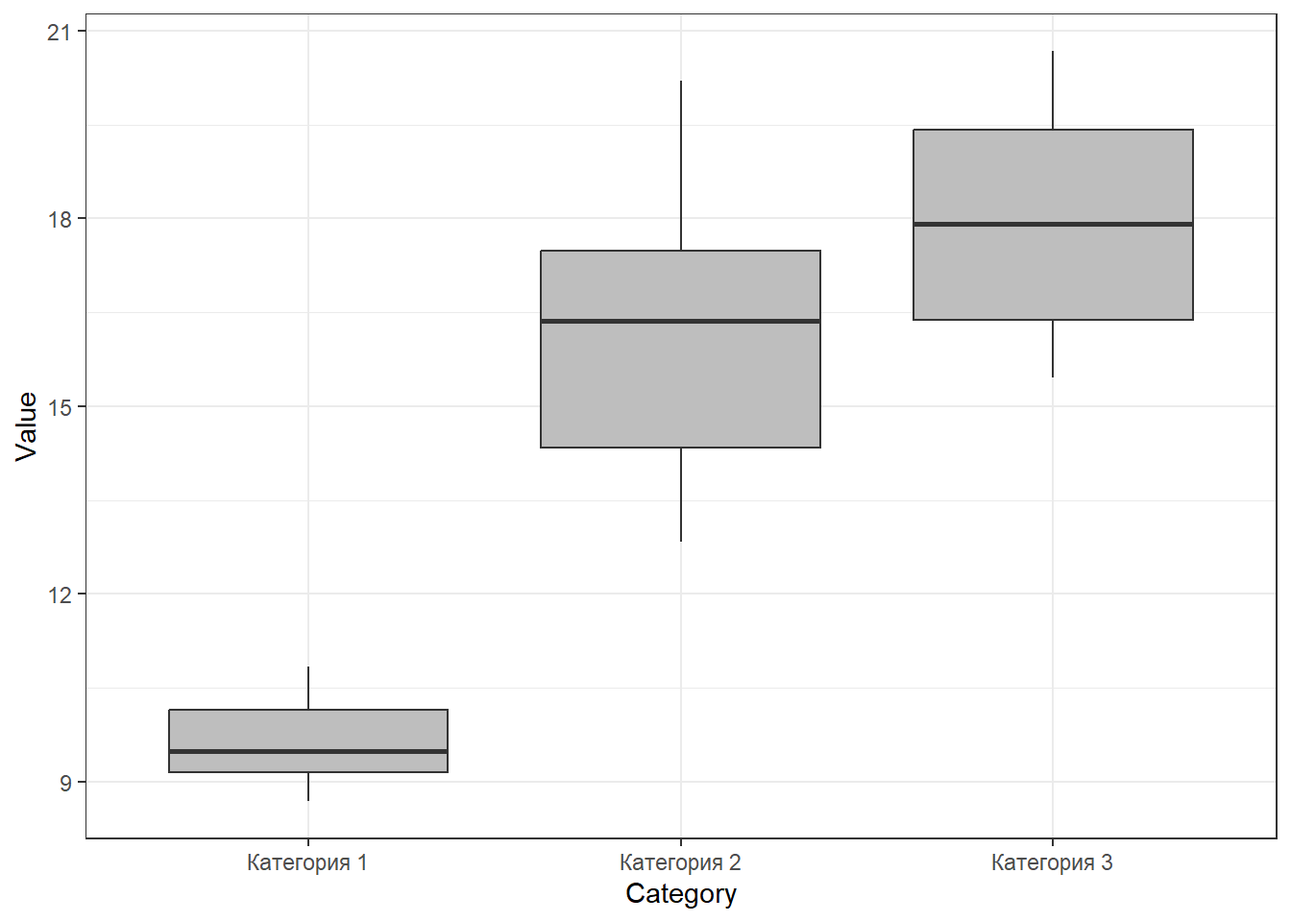
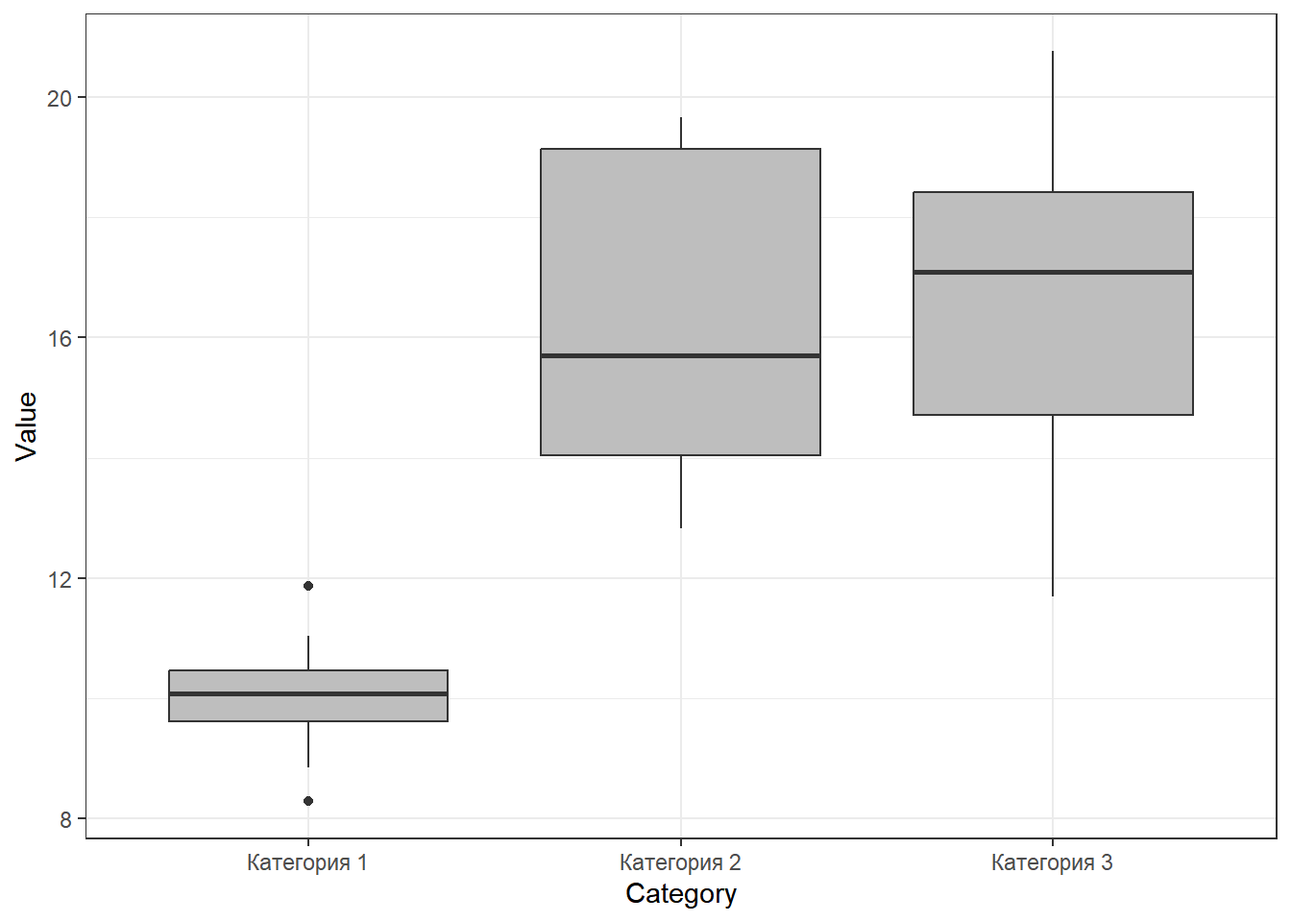
Открыл код лекции

diff --git a/lectures.html b/lectures.html
@@ -535,7 +535,7 @@ virginica.</p>
 набить в экселе.</p>
 <p>Для примера, решение аналогичного задания, для вида “setosa” по
 переменной <code>iris$Sepal.Width</code> будет выглядеть вот так.</p>
-<div class="tabwid"><style>.cl-20b68b18{}.cl-209d0fc6{font-family:'Arial';font-size:11pt;font-weight:normal;font-style:normal;text-decoration:none;color:rgba(0, 0, 0, 1.00);background-color:transparent;}.cl-20a6b08a{margin:0;text-align:left;border-bottom: 0 solid rgba(0, 0, 0, 1.00);border-top: 0 solid rgba(0, 0, 0, 1.00);border-left: 0 solid rgba(0, 0, 0, 1.00);border-right: 0 solid rgba(0, 0, 0, 1.00);padding-bottom:5pt;padding-top:5pt;padding-left:5pt;padding-right:5pt;line-height: 1;background-color:transparent;}.cl-20a6b09e{margin:0;text-align:right;border-bottom: 0 solid rgba(0, 0, 0, 1.00);border-top: 0 solid rgba(0, 0, 0, 1.00);border-left: 0 solid rgba(0, 0, 0, 1.00);border-right: 0 solid rgba(0, 0, 0, 1.00);padding-bottom:5pt;padding-top:5pt;padding-left:5pt;padding-right:5pt;line-height: 1;background-color:transparent;}.cl-20a73294{width:0.75in;background-color:transparent;vertical-align: middle;border-bottom: 1.5pt solid rgba(102, 102, 102, 1.00);border-top: 1.5pt solid rgba(102, 102, 102, 1.00);border-left: 0 solid rgba(0, 0, 0, 1.00);border-right: 0 solid rgba(0, 0, 0, 1.00);margin-bottom:0;margin-top:0;margin-left:0;margin-right:0;}.cl-20a7329e{width:0.75in;background-color:transparent;vertical-align: middle;border-bottom: 1.5pt solid rgba(102, 102, 102, 1.00);border-top: 1.5pt solid rgba(102, 102, 102, 1.00);border-left: 0 solid rgba(0, 0, 0, 1.00);border-right: 0 solid rgba(0, 0, 0, 1.00);margin-bottom:0;margin-top:0;margin-left:0;margin-right:0;}.cl-20a7329f{width:0.75in;background-color:transparent;vertical-align: middle;border-bottom: 0 solid rgba(0, 0, 0, 1.00);border-top: 0 solid rgba(0, 0, 0, 1.00);border-left: 0 solid rgba(0, 0, 0, 1.00);border-right: 0 solid rgba(0, 0, 0, 1.00);margin-bottom:0;margin-top:0;margin-left:0;margin-right:0;}.cl-20a732a8{width:0.75in;background-color:transparent;vertical-align: middle;border-bottom: 0 solid rgba(0, 0, 0, 1.00);border-top: 0 solid rgba(0, 0, 0, 1.00);border-left: 0 solid rgba(0, 0, 0, 1.00);border-right: 0 solid rgba(0, 0, 0, 1.00);margin-bottom:0;margin-top:0;margin-left:0;margin-right:0;}.cl-20a732b2{width:0.75in;background-color:transparent;vertical-align: middle;border-bottom: 1.5pt solid rgba(102, 102, 102, 1.00);border-top: 0 solid rgba(0, 0, 0, 1.00);border-left: 0 solid rgba(0, 0, 0, 1.00);border-right: 0 solid rgba(0, 0, 0, 1.00);margin-bottom:0;margin-top:0;margin-left:0;margin-right:0;}.cl-20a732b3{width:0.75in;background-color:transparent;vertical-align: middle;border-bottom: 1.5pt solid rgba(102, 102, 102, 1.00);border-top: 0 solid rgba(0, 0, 0, 1.00);border-left: 0 solid rgba(0, 0, 0, 1.00);border-right: 0 solid rgba(0, 0, 0, 1.00);margin-bottom:0;margin-top:0;margin-left:0;margin-right:0;}</style><table data-quarto-disable-processing='true' class='cl-20b68b18'><thead><tr style="overflow-wrap:break-word;"><th class="cl-20a73294"><p class="cl-20a6b08a"><span class="cl-209d0fc6">Sepal.Width</span></p></th><th class="cl-20a7329e"><p class="cl-20a6b09e"><span class="cl-209d0fc6">Frequency</span></p></th></tr></thead><tbody><tr style="overflow-wrap:break-word;"><td class="cl-20a7329f"><p class="cl-20a6b08a"><span class="cl-209d0fc6">2.3</span></p></td><td class="cl-20a732a8"><p class="cl-20a6b09e"><span class="cl-209d0fc6">1</span></p></td></tr><tr style="overflow-wrap:break-word;"><td class="cl-20a7329f"><p class="cl-20a6b08a"><span class="cl-209d0fc6">2.9</span></p></td><td class="cl-20a732a8"><p class="cl-20a6b09e"><span class="cl-209d0fc6">1</span></p></td></tr><tr style="overflow-wrap:break-word;"><td class="cl-20a7329f"><p class="cl-20a6b08a"><span class="cl-209d0fc6">3</span></p></td><td class="cl-20a732a8"><p class="cl-20a6b09e"><span class="cl-209d0fc6">6</span></p></td></tr><tr style="overflow-wrap:break-word;"><td class="cl-20a7329f"><p class="cl-20a6b08a"><span class="cl-209d0fc6">3.1</span></p></td><td class="cl-20a732a8"><p class="cl-20a6b09e"><span class="cl-209d0fc6">4</span></p></td></tr><tr style="overflow-wrap:break-word;"><td class="cl-20a7329f"><p class="cl-20a6b08a"><span class="cl-209d0fc6">3.2</span></p></td><td class="cl-20a732a8"><p class="cl-20a6b09e"><span class="cl-209d0fc6">5</span></p></td></tr><tr style="overflow-wrap:break-word;"><td class="cl-20a7329f"><p class="cl-20a6b08a"><span class="cl-209d0fc6">3.3</span></p></td><td class="cl-20a732a8"><p class="cl-20a6b09e"><span class="cl-209d0fc6">2</span></p></td></tr><tr style="overflow-wrap:break-word;"><td class="cl-20a7329f"><p class="cl-20a6b08a"><span class="cl-209d0fc6">3.4</span></p></td><td class="cl-20a732a8"><p class="cl-20a6b09e"><span class="cl-209d0fc6">9</span></p></td></tr><tr style="overflow-wrap:break-word;"><td class="cl-20a7329f"><p class="cl-20a6b08a"><span class="cl-209d0fc6">3.5</span></p></td><td class="cl-20a732a8"><p class="cl-20a6b09e"><span class="cl-209d0fc6">6</span></p></td></tr><tr style="overflow-wrap:break-word;"><td class="cl-20a7329f"><p class="cl-20a6b08a"><span class="cl-209d0fc6">3.6</span></p></td><td class="cl-20a732a8"><p class="cl-20a6b09e"><span class="cl-209d0fc6">3</span></p></td></tr><tr style="overflow-wrap:break-word;"><td class="cl-20a7329f"><p class="cl-20a6b08a"><span class="cl-209d0fc6">3.7</span></p></td><td class="cl-20a732a8"><p class="cl-20a6b09e"><span class="cl-209d0fc6">3</span></p></td></tr><tr style="overflow-wrap:break-word;"><td class="cl-20a7329f"><p class="cl-20a6b08a"><span class="cl-209d0fc6">3.8</span></p></td><td class="cl-20a732a8"><p class="cl-20a6b09e"><span class="cl-209d0fc6">4</span></p></td></tr><tr style="overflow-wrap:break-word;"><td class="cl-20a7329f"><p class="cl-20a6b08a"><span class="cl-209d0fc6">3.9</span></p></td><td class="cl-20a732a8"><p class="cl-20a6b09e"><span class="cl-209d0fc6">2</span></p></td></tr><tr style="overflow-wrap:break-word;"><td class="cl-20a7329f"><p class="cl-20a6b08a"><span class="cl-209d0fc6">4</span></p></td><td class="cl-20a732a8"><p class="cl-20a6b09e"><span class="cl-209d0fc6">1</span></p></td></tr><tr style="overflow-wrap:break-word;"><td class="cl-20a7329f"><p class="cl-20a6b08a"><span class="cl-209d0fc6">4.1</span></p></td><td class="cl-20a732a8"><p class="cl-20a6b09e"><span class="cl-209d0fc6">1</span></p></td></tr><tr style="overflow-wrap:break-word;"><td class="cl-20a7329f"><p class="cl-20a6b08a"><span class="cl-209d0fc6">4.2</span></p></td><td class="cl-20a732a8"><p class="cl-20a6b09e"><span class="cl-209d0fc6">1</span></p></td></tr><tr style="overflow-wrap:break-word;"><td class="cl-20a732b2"><p class="cl-20a6b08a"><span class="cl-209d0fc6">4.4</span></p></td><td class="cl-20a732b3"><p class="cl-20a6b09e"><span class="cl-209d0fc6">1</span></p></td></tr></tbody></table></div>
+<div class="tabwid"><style>.cl-76eae7e2{}.cl-76b98bb6{font-family:'Arial';font-size:11pt;font-weight:normal;font-style:normal;text-decoration:none;color:rgba(0, 0, 0, 1.00);background-color:transparent;}.cl-76c52192{margin:0;text-align:left;border-bottom: 0 solid rgba(0, 0, 0, 1.00);border-top: 0 solid rgba(0, 0, 0, 1.00);border-left: 0 solid rgba(0, 0, 0, 1.00);border-right: 0 solid rgba(0, 0, 0, 1.00);padding-bottom:5pt;padding-top:5pt;padding-left:5pt;padding-right:5pt;line-height: 1;background-color:transparent;}.cl-76c521a6{margin:0;text-align:right;border-bottom: 0 solid rgba(0, 0, 0, 1.00);border-top: 0 solid rgba(0, 0, 0, 1.00);border-left: 0 solid rgba(0, 0, 0, 1.00);border-right: 0 solid rgba(0, 0, 0, 1.00);padding-bottom:5pt;padding-top:5pt;padding-left:5pt;padding-right:5pt;line-height: 1;background-color:transparent;}.cl-76c5a81a{width:0.75in;background-color:transparent;vertical-align: middle;border-bottom: 1.5pt solid rgba(102, 102, 102, 1.00);border-top: 1.5pt solid rgba(102, 102, 102, 1.00);border-left: 0 solid rgba(0, 0, 0, 1.00);border-right: 0 solid rgba(0, 0, 0, 1.00);margin-bottom:0;margin-top:0;margin-left:0;margin-right:0;}.cl-76c5a82e{width:0.75in;background-color:transparent;vertical-align: middle;border-bottom: 1.5pt solid rgba(102, 102, 102, 1.00);border-top: 1.5pt solid rgba(102, 102, 102, 1.00);border-left: 0 solid rgba(0, 0, 0, 1.00);border-right: 0 solid rgba(0, 0, 0, 1.00);margin-bottom:0;margin-top:0;margin-left:0;margin-right:0;}.cl-76c5a82f{width:0.75in;background-color:transparent;vertical-align: middle;border-bottom: 0 solid rgba(0, 0, 0, 1.00);border-top: 0 solid rgba(0, 0, 0, 1.00);border-left: 0 solid rgba(0, 0, 0, 1.00);border-right: 0 solid rgba(0, 0, 0, 1.00);margin-bottom:0;margin-top:0;margin-left:0;margin-right:0;}.cl-76c5a838{width:0.75in;background-color:transparent;vertical-align: middle;border-bottom: 0 solid rgba(0, 0, 0, 1.00);border-top: 0 solid rgba(0, 0, 0, 1.00);border-left: 0 solid rgba(0, 0, 0, 1.00);border-right: 0 solid rgba(0, 0, 0, 1.00);margin-bottom:0;margin-top:0;margin-left:0;margin-right:0;}.cl-76c5a839{width:0.75in;background-color:transparent;vertical-align: middle;border-bottom: 1.5pt solid rgba(102, 102, 102, 1.00);border-top: 0 solid rgba(0, 0, 0, 1.00);border-left: 0 solid rgba(0, 0, 0, 1.00);border-right: 0 solid rgba(0, 0, 0, 1.00);margin-bottom:0;margin-top:0;margin-left:0;margin-right:0;}.cl-76c5a842{width:0.75in;background-color:transparent;vertical-align: middle;border-bottom: 1.5pt solid rgba(102, 102, 102, 1.00);border-top: 0 solid rgba(0, 0, 0, 1.00);border-left: 0 solid rgba(0, 0, 0, 1.00);border-right: 0 solid rgba(0, 0, 0, 1.00);margin-bottom:0;margin-top:0;margin-left:0;margin-right:0;}</style><table data-quarto-disable-processing='true' class='cl-76eae7e2'><thead><tr style="overflow-wrap:break-word;"><th class="cl-76c5a81a"><p class="cl-76c52192"><span class="cl-76b98bb6">Sepal.Width</span></p></th><th class="cl-76c5a82e"><p class="cl-76c521a6"><span class="cl-76b98bb6">Frequency</span></p></th></tr></thead><tbody><tr style="overflow-wrap:break-word;"><td class="cl-76c5a82f"><p class="cl-76c52192"><span class="cl-76b98bb6">2.3</span></p></td><td class="cl-76c5a838"><p class="cl-76c521a6"><span class="cl-76b98bb6">1</span></p></td></tr><tr style="overflow-wrap:break-word;"><td class="cl-76c5a82f"><p class="cl-76c52192"><span class="cl-76b98bb6">2.9</span></p></td><td class="cl-76c5a838"><p class="cl-76c521a6"><span class="cl-76b98bb6">1</span></p></td></tr><tr style="overflow-wrap:break-word;"><td class="cl-76c5a82f"><p class="cl-76c52192"><span class="cl-76b98bb6">3</span></p></td><td class="cl-76c5a838"><p class="cl-76c521a6"><span class="cl-76b98bb6">6</span></p></td></tr><tr style="overflow-wrap:break-word;"><td class="cl-76c5a82f"><p class="cl-76c52192"><span class="cl-76b98bb6">3.1</span></p></td><td class="cl-76c5a838"><p class="cl-76c521a6"><span class="cl-76b98bb6">4</span></p></td></tr><tr style="overflow-wrap:break-word;"><td class="cl-76c5a82f"><p class="cl-76c52192"><span class="cl-76b98bb6">3.2</span></p></td><td class="cl-76c5a838"><p class="cl-76c521a6"><span class="cl-76b98bb6">5</span></p></td></tr><tr style="overflow-wrap:break-word;"><td class="cl-76c5a82f"><p class="cl-76c52192"><span class="cl-76b98bb6">3.3</span></p></td><td class="cl-76c5a838"><p class="cl-76c521a6"><span class="cl-76b98bb6">2</span></p></td></tr><tr style="overflow-wrap:break-word;"><td class="cl-76c5a82f"><p class="cl-76c52192"><span class="cl-76b98bb6">3.4</span></p></td><td class="cl-76c5a838"><p class="cl-76c521a6"><span class="cl-76b98bb6">9</span></p></td></tr><tr style="overflow-wrap:break-word;"><td class="cl-76c5a82f"><p class="cl-76c52192"><span class="cl-76b98bb6">3.5</span></p></td><td class="cl-76c5a838"><p class="cl-76c521a6"><span class="cl-76b98bb6">6</span></p></td></tr><tr style="overflow-wrap:break-word;"><td class="cl-76c5a82f"><p class="cl-76c52192"><span class="cl-76b98bb6">3.6</span></p></td><td class="cl-76c5a838"><p class="cl-76c521a6"><span class="cl-76b98bb6">3</span></p></td></tr><tr style="overflow-wrap:break-word;"><td class="cl-76c5a82f"><p class="cl-76c52192"><span class="cl-76b98bb6">3.7</span></p></td><td class="cl-76c5a838"><p class="cl-76c521a6"><span class="cl-76b98bb6">3</span></p></td></tr><tr style="overflow-wrap:break-word;"><td class="cl-76c5a82f"><p class="cl-76c52192"><span class="cl-76b98bb6">3.8</span></p></td><td class="cl-76c5a838"><p class="cl-76c521a6"><span class="cl-76b98bb6">4</span></p></td></tr><tr style="overflow-wrap:break-word;"><td class="cl-76c5a82f"><p class="cl-76c52192"><span class="cl-76b98bb6">3.9</span></p></td><td class="cl-76c5a838"><p class="cl-76c521a6"><span class="cl-76b98bb6">2</span></p></td></tr><tr style="overflow-wrap:break-word;"><td class="cl-76c5a82f"><p class="cl-76c52192"><span class="cl-76b98bb6">4</span></p></td><td class="cl-76c5a838"><p class="cl-76c521a6"><span class="cl-76b98bb6">1</span></p></td></tr><tr style="overflow-wrap:break-word;"><td class="cl-76c5a82f"><p class="cl-76c52192"><span class="cl-76b98bb6">4.1</span></p></td><td class="cl-76c5a838"><p class="cl-76c521a6"><span class="cl-76b98bb6">1</span></p></td></tr><tr style="overflow-wrap:break-word;"><td class="cl-76c5a82f"><p class="cl-76c52192"><span class="cl-76b98bb6">4.2</span></p></td><td class="cl-76c5a838"><p class="cl-76c521a6"><span class="cl-76b98bb6">1</span></p></td></tr><tr style="overflow-wrap:break-word;"><td class="cl-76c5a839"><p class="cl-76c52192"><span class="cl-76b98bb6">4.4</span></p></td><td class="cl-76c5a842"><p class="cl-76c521a6"><span class="cl-76b98bb6">1</span></p></td></tr></tbody></table></div>
 <p><strong>Полученный датасет необходимо сохранить в формате
 .csv</strong>.</p>
 <p><br> <br></p>
@@ -558,26 +558,38 @@ virginica.</p>
 <div id="описательная-статистика" class="section level1">
 <h1>3. Описательная статистика</h1>
 <p><br></p>
-<!-- [Презентация](03.1_descriptive_statistics_Part_1.html) -->
-<!-- ### Домашнее задание №3 -->
+<p><a href="03.1_descriptive_statistics_Part_1.html">Презентация</a></p>
+<div id="домашнее-задание-3" class="section level3">
+<h3>Домашнее задание №3</h3>
 <!-- **Внимание!** Вы молодцы и очень неплохо уже пишите коды. Однако надо научиться теперь делать эти коды достоянием общественности. Поэтому теперь подробное комментирование действий в домашних работах будем считать обязательным. За отсутствие подробных комментариев оценки будут снижаться. -->
-<!-- **Часть 1.** -->
-<!-- **Ваша миссия:** Напишите код, который будет выводить следущие значения для тех переменных, которые даны ниже (в каждом варианте будет свой набор данных). -->
-<!-- + Одновременно минимум,максимум, 1-й, медиану и 3-й квартили -->
-<!-- В каждом датасете есть несколько категорий, для каждой из них надо вывести указанные выше описательные статистики (например, для каждого вида нужно дать отдельные характеристики). -->
-<!-- <u> **Датасеты:** </u> -->
-<!-- - *Вариант 1.* Переменная `Petal.Length` для каждого из видов из датасета `iris` -->
-<!-- - *Вариант 2.* Вес цыплят `weight` на 21-й день наблюдения (переменная `Time`) для каждого из четырех типов диет (Diet) из датасета `ChickWeight`. -->
-<!-- - *Вариант 3.* Расход топлива `mpg` у автомобилей с разным количеством цилиндров (переменная `cyl`) из датасета `mtcars`. **Важно!** переменную `cyl` необходимо сделать фактором (используйте функцию *as.factor()*). -->
-<!-- **Часть 2.** -->
-<!-- Для своего датасета необходимо построить картинку подобную вот этой -->
-<!-- ```{r} -->
-<!-- df <- data.frame(Category = rep(c("Категория 1", "Категория 2", "Категория 3"), each = 10), Value = c(rnorm(10, 10, 1), rnorm(10, 15, 2), rnorm(10, 17, 2)) ) -->
-<!-- library(ggplot2) -->
-<!-- ggplot(df, aes(x = Category, y = Value)) + -->
-<!--   geom_boxplot(fill = "gray") + -->
-<!--   theme_bw() -->
-<!-- ``` -->
+<p><strong>Часть 1.</strong></p>
+<p><strong>Ваша миссия:</strong> Напишите код, который будет выводить
+следущие значения для тех переменных, которые даны ниже (в каждом
+варианте будет свой набор данных).</p>
+<ul>
+<li>Одновременно минимум,максимум, 1-й, медиану и 3-й квартили</li>
+</ul>
+<p>В каждом датасете есть несколько категорий, для каждой из них надо
+вывести указанные выше описательные статистики (например, для каждого
+вида нужно дать отдельные характеристики).</p>
+<p><u> <strong>Датасеты:</strong> </u></p>
+<ul>
+<li><p><em>Вариант 1.</em> Переменная <code>Petal.Length</code> для
+каждого из видов из датасета <code>iris</code></p></li>
+<li><p><em>Вариант 2.</em> Вес цыплят <code>weight</code> на 21-й день
+наблюдения (переменная <code>Time</code>) для каждого из четырех типов
+диет (Diet) из датасета <code>ChickWeight</code>.</p></li>
+<li><p><em>Вариант 3.</em> Расход топлива <code>mpg</code> у автомобилей
+с разным количеством цилиндров (переменная <code>cyl</code>) из датасета
+<code>mtcars</code>. <strong>Важно!</strong> переменную <code>cyl</code>
+необходимо сделать фактором (используйте функцию
+<em>as.factor()</em>).</p></li>
+</ul>
+<p><strong>Часть 2.</strong></p>
+<p>Для своего датасета необходимо построить картинку подобную вот
+этой</p>
+<p><img src="lectures_files/figure-html/unnamed-chunk-6-1.png" alt="" width="672" style="display: block; margin: auto;" /></p>
+</div>
 </div>
 <div
 id="модель-нрмального-распределения-как-основа-для-тестирования-статистических-гипотез"
@@ -637,14 +649,14 @@ class="section level1">
 <!-- ``` -->
 <!--  Представьте себе, что вы идете по лесам Средиземья с отрядом эльфов. Все участники похода были независимо и случайно отобраны из числа этого народа. И вдруг, вдалеке, вы заметили отряд неких существ. Вам необходимо принять решение о том, свои это или чужие. Вы (с помощью магии, наверное) смогли как-то измерить рост фигур из этого отряда. Сделайте обоснованный вывод на основе данных, которые у вас имеются. Результаты необходимо описать в виде текста (комментарии в скрипте с решением, в котором надо сформулировать нулевую и альтернативную гипотезы и сделать выбор между ними) и визуализировать в виде столбчатой диаграммы (необходимо написать код, который ее построит). -->
 <!-- **Вариант 1.** -->
-<!-- Рост эльфов из вашего отряда (см):  174, 178, 179, 180, 182, 178, 176, 178, 182, 182, 182, 189, 185, 176, 178 -->
-<!-- Рост фигур (см): 161, 164, 164, 171, 167, 168, 168, 162, 159, 170, 153, 163 -->
+<!-- Рост эльфов из вашего отряда (см):  180, 177, 181, 171, 169, 181, 186, 174, 185, 187, 183, 176, 178, 184, 186 -->
+<!-- Рост фигур (см): 171, 172, 164, 167, 167, 170, 171, 162, 159, 161, 160, 167, 157, 160 -->
 <!-- **Вариант 2.** -->
-<!-- Рост эльфов из вашего отряда (см):  183, 182, 185, 174, 182, 177, 188, 172, 175, 183, 178, 174, 182, 181, 182 -->
-<!-- Рост фигур (см): 189, 191, 192, 177, 192, 193, 185 -->
+<!-- Рост эльфов из вашего отряда (см):  186, 179, 184, 178, 177, 181, 179, 177, 180, 176, 187, 176, 179, 176, 182 -->
+<!-- Рост фигур (см): 184, 189, 197, 186, 193, 201, 203, 190, 190, 192, 195, 187, 198, 191 -->
 <!-- **Вариант 3.** -->
-<!-- Рост эльфов из вашего отряда (см):  180, 181, 188, 180, 188, 183, 184, 171, 183, 182, 185, 171, 185, 189, 176 -->
-<!-- Рост фигур (см): 147, 154, 144, 152, 150, 150, 165, 149, 155, 156 -->
+<!-- Рост эльфов из вашего отряда (см):  187, 178, 172, 179, 179, 176, 192, 181, 179, 181, 183, 177, 190, 176, 181 -->
+<!-- Рост фигур (см): 153, 139, 144, 152, 156, 156, 140, 148, 162, 157, 157, 155, 152, 163, 153, 155, 151, 152, 138, 152 -->
 </div>
 <div id="дисперсионный-анализ" class="section level1">
 <h1>6. Дисперсионный анализ</h1>

diff --git a/03.1_descriptive_statistics_Part_1.html b/03.1_descriptive_statistics_Part_1.html
@@ -7,7 +7,7 @@
     <meta name="author" content="Вадим Хайтов" />
     <meta name="author" content="Юта Тамберг" />
     <meta name="author" content="Анастасия Лянгузова" />
-    <script src="site_libs/header-attrs-2.20/header-attrs.js"></script>
+    <script src="site_libs/header-attrs-2.30/header-attrs.js"></script>
     <link href="site_libs/remark-css-0.0.1/default.css" rel="stylesheet" />
     <link href="site_libs/remark-css-0.0.1/tamu-fonts.css" rel="stylesheet" />
     <link href="site_libs/remark-css-0.0.1/ninjutsu.css" rel="stylesheet" />
@@ -103,7 +103,7 @@ class: middle, center, inverse
 
 
 
-```r
+``` r
 set.seed(12345)
 dat &lt;- round(rnorm(100, 10, 2), 1)
 
@@ -128,7 +128,7 @@ dat
 
 .pull-left-40[
 
-```r
+``` r
 df &lt;- data.frame(X = dat)
 
 Pl &lt;-
@@ -143,7 +143,7 @@ Pl + geom_histogram(aes(x = X), bins = 10)
 
 .pull-right-40[
 
-```r
+``` r
 Pl + geom_boxplot(aes(y = X))
 ```
 
@@ -159,7 +159,7 @@ Pl + geom_boxplot(aes(y = X))
 Можно охарактеризовать медиану и квартили.
 
 
-```r
+``` r
 summary(dat)
 ```
 
@@ -226,7 +226,7 @@ $$
 Предположим, мы занимаемся селекцией яблонь и хотим охарактеризовать урожай любимой яблони, на которую возлагаем большие надежды.
 
 
-```r
+``` r
 apples &lt;- c(7.3, 9.7, 10.1,  9.5,  8.0,  9.2,  7.9,  9.1)
 ```
 
@@ -237,7 +237,7 @@ apples &lt;- c(7.3, 9.7, 10.1,  9.5,  8.0,  9.2,  7.9,  9.1)
 Наши данные в исходном виде выглядят примерно так:
 
 
-```r
+``` r
 apples
 ```
 
@@ -252,7 +252,7 @@ apples
 Чтобы увидеть медиану, мы должны ранжировать, или отсортировать, наш вектор по возрастанию:
 
 
-```r
+``` r
 sort(apples)
 ```
 
@@ -274,7 +274,7 @@ sort(apples)
 - Если n четное, то медиана посередине между `\(\frac{n}{2}\)` и `\(\frac{n+1}{2}\)` значениями.
 
 
-```r
+``` r
 sort(apples)
 ```
 
@@ -289,7 +289,7 @@ sort(apples)
 ]
 
 
-```r
+``` r
 median(apples) # Проверим себя
 ```
 
@@ -304,7 +304,7 @@ median(apples) # Проверим себя
 Представим, что наши измерения пострадали от неаккуратности. Допустим сотрудник, которому мы поручили измерять яблоки, измерил также арбуз и записал этот результат вместе со всеми остальными.
 
 
-```r
+``` r
 apples2 &lt;- c(apples, 68) # Создадим вектор с новым значением
 sort(apples2)
 ```
@@ -316,7 +316,7 @@ sort(apples2)
 Что станет с медианой? Сильно ли она изменится?
 
 
-```r
+``` r
 median(apples2)
 ```
 
@@ -331,7 +331,7 @@ median(apples2)
 Давайте для сравнения посмотрим на среднее.
 
 
-```r
+``` r
 mean(apples)
 ```
 
@@ -339,7 +339,7 @@ mean(apples)
 [1] 8.85
 ```
 
-```r
+``` r
 mean(apples2)
 ```
 
@@ -378,7 +378,7 @@ mean(apples2)
 Квартили можно найти при помощи функции `quantile()`
 
 
-```r
+``` r
 quantile(x = apples, probs = c(0.25, 0.5, 0.75))
 ```
 
@@ -394,7 +394,7 @@ quantile(x = apples, probs = c(0.25, 0.5, 0.75))
 Функция `quantile(x)` без указания значений вероятностей (`probs`) покажет нам квартили, минимум и максимум.
 
 
-```r
+``` r
 quantile(apples)
 ```
 
@@ -414,7 +414,7 @@ quantile(apples)
 Ничто не помешает нам узнать, например, какие значения отсекают 10% или 99% значений выборки. Подставим соответствующие аргументы:
 
 
-```r
+``` r
 quantile(apples, probs = c(0.1, 0.99))
 ```
 
@@ -429,7 +429,7 @@ quantile(apples, probs = c(0.1, 0.99))
 
 .pull-left[
 
-```r
+``` r
 boxplot(apples)
 ```
 
@@ -455,7 +455,7 @@ boxplot(apples)
 ## Подготовим все, чтобы построить график в ggplot2
 
 
-```r
+``` r
 library(ggplot2)
 theme_set(theme_bw())
 
@@ -478,7 +478,7 @@ head(apple_data)
 ## Боксплот можно построить при помощи `geom_boxplot()`
 
 
-```r
+``` r
 ggplot(data = apple_data) + 
   geom_boxplot(aes(x = 'Медиана \nи квантили', y = diameter))
 ```
@@ -493,9 +493,9 @@ ggplot(data = apple_data) +
 <script src="https://remarkjs.com/downloads/remark-latest.min.js"></script>
 <script src="assets/cols_macro.js"></script>
 <script>var slideshow = remark.create({
-"highlightStyle": "vs",
-"highlightLines": true,
-"countIncrementalSlides": false
+  "highlightStyle": "vs",
+  "highlightLines": true,
+  "countIncrementalSlides": false
 });
 if (window.HTMLWidgets) slideshow.on('afterShowSlide', function (slide) {
   window.dispatchEvent(new Event('resize'));

diff --git a/site_libs/remark-css-0.0.1/default.css b/site_libs/remark-css-0.0.1/default.css
@@ -1,0 +1,72 @@
+a, a > code {
+  color: rgb(249, 38, 114);
+  text-decoration: none;
+}
+.footnote {
+  position: absolute;
+  bottom: 3em;
+  padding-right: 4em;
+  font-size: 90%;
+}
+.remark-code-line-highlighted     { background-color: #ffff88; }
+
+.inverse {
+  background-color: #272822;
+  color: #d6d6d6;
+  text-shadow: 0 0 20px #333;
+}
+.inverse h1, .inverse h2, .inverse h3 {
+  color: #f3f3f3;
+}
+/* Two-column layout */
+.left-column {
+  color: #777;
+  width: 20%;
+  height: 92%;
+  float: left;
+}
+.left-column h2:last-of-type, .left-column h3:last-child {
+  color: #000;
+}
+.right-column {
+  width: 75%;
+  float: right;
+  padding-top: 1em;
+}
+.pull-left {
+  float: left;
+  width: 47%;
+}
+.pull-right {
+  float: right;
+  width: 47%;
+}
+.pull-right + * {
+  clear: both;
+}
+img, video, iframe {
+  max-width: 100%;
+}
+blockquote {
+  border-left: solid 5px lightgray;
+  padding-left: 1em;
+}
+.remark-slide table {
+  margin: auto;
+  border-top: 1px solid #666;
+  border-bottom: 1px solid #666;
+}
+.remark-slide table thead th { border-bottom: 1px solid #ddd; }
+th, td { padding: 5px; }
+.remark-slide thead, .remark-slide tfoot, .remark-slide tr:nth-child(even) { background: #eee }
+
+@page { margin: 0; }
+@media print {
+  .remark-slide-scaler {
+    width: 100% !important;
+    height: 100% !important;
+    transform: scale(1) !important;
+    top: 0 !important;
+    left: 0 !important;
+  }
+}

diff --git a/site_libs/remark-css-0.0.1/tamu-fonts.css b/site_libs/remark-css-0.0.1/tamu-fonts.css
@@ -1,0 +1,12 @@
+@import url(https://fonts.googleapis.com/css?family=Open+Sans);
+@import url(https://fonts.googleapis.com/css?family=Yanone+Kaffeesatz);
+@import url('https://fonts.googleapis.com/css?family=Inconsolata:400,700');
+
+body { font-family: 'Open Sans', 'Palatino Linotype', 'Book Antiqua', Palatino, 'Microsoft YaHei', 'Songti SC', serif; }
+
+h1, h2, h3 { font-family: 'Yanone Kaffeesatz'; }
+
+.remark-code, .remark-inline-code { 
+  font-family: 'Inconsolata', 'Lucida Console', Monaco, monospace; color: #500000; 
+  background-color: #f3f3f3;  font-size: 90%; 
+}

diff --git a/assets/xaringan-themer.css b/assets/xaringan-themer.css
@@ -15,7 +15,7 @@
  *    - xaringan wiki: https://github.com/yihui/xaringan/wiki
  *    - remarkjs wiki: https://github.com/gnab/remark/wiki
  *
- *  Version: 0.4.2
+ *  Version: 0.4.4
  *
  * ------------------------------------------------------- */
 @import url(https://fonts.googleapis.com/css?family=Nunito:400,400i&subset=latin,cyrillic&display=swap);
